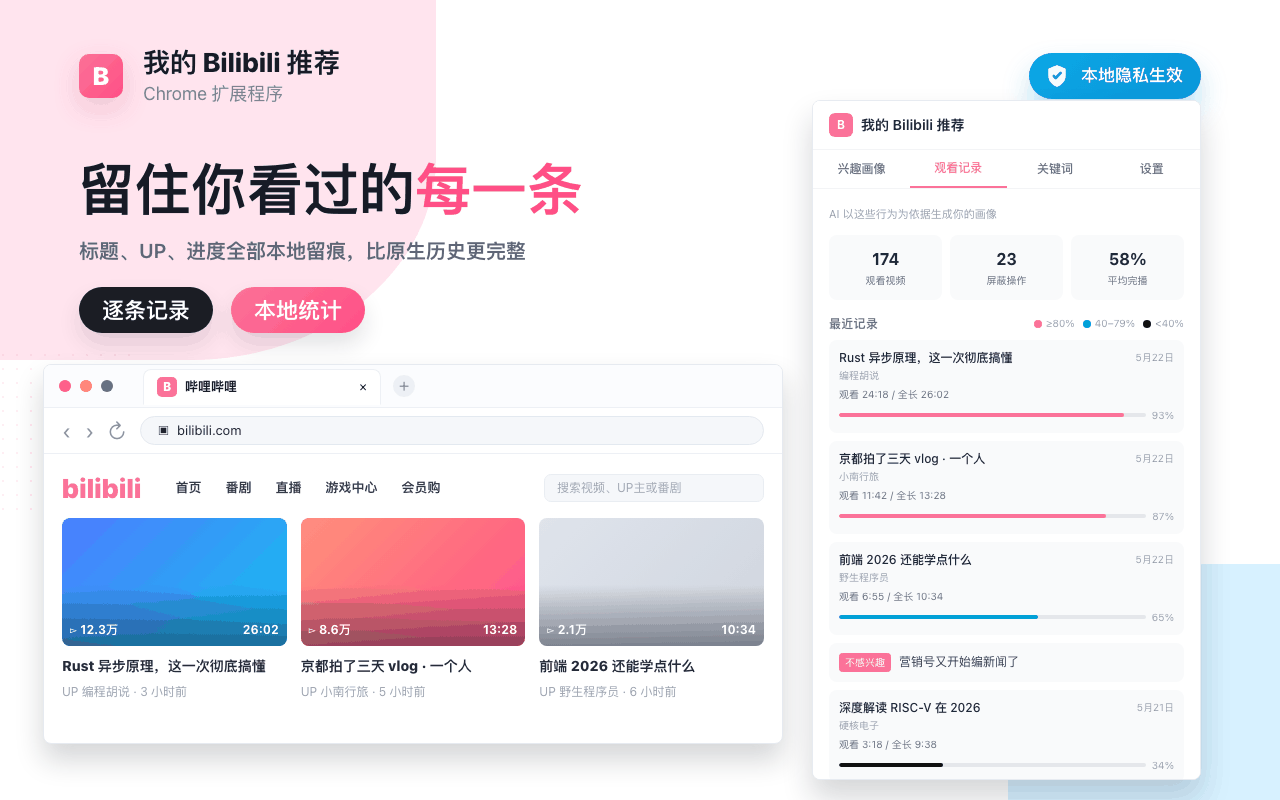
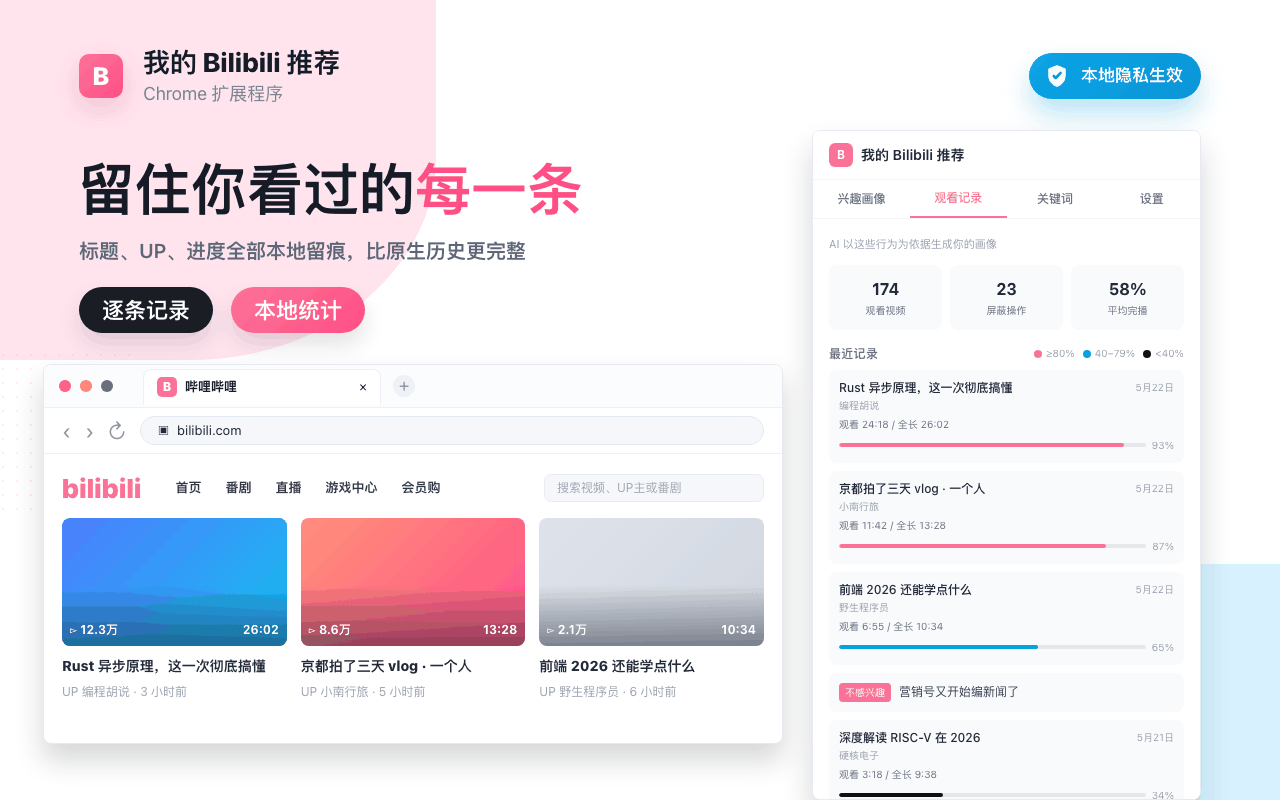
fix(promo): give privacy badge breathing room from popup + trim history to 5
Two polish fixes for the history-insights scene:

1. 本地隐私生效 badge bottom edge (y=94) was only 6px from popup top
   (y=100), making them look glued together. Moved popup top to 130
   for a comfortable ~35px gap.
2. recentActions.slice(0, 6) overflowed the popup viewport; the 6th
   row (屏蔽UP 热点观察) was always cut. Trimmed to slice(0, 5) so
   the popup shows complete content end-to-end.

Popup height adjusted 680 → 670 to keep bottom edge at stage bottom
(y=800) after moving top down.

diff --git a/src/promo/scenes/history-insights.tsx b/src/promo/scenes/history-insights.tsx
@@ -104,8 +104,8 @@ export default function HistoryInsightsScene() {
       {/* 右浮：真实 popup（用 ui 组件渲染） */}
       <aside style={{
         position: 'absolute',
-        right: 79, top: 100,
-        width: 389, height: 680,
+        right: 79, top: 130,
+        width: 389, height: 670,
         borderRadius: 8,
         overflow: 'hidden',
         background: 'white',
@@ -114,7 +114,7 @@ export default function HistoryInsightsScene() {
         zIndex: 5,
       }}>
         <PopupShell active="history" variant="popup">
-          <HistoryView actions={recentActions.slice(0, 6)} stats={demoStats} />
+          <HistoryView actions={recentActions.slice(0, 5)} stats={demoStats} />
         </PopupShell>
       </aside>
     </Stage>
